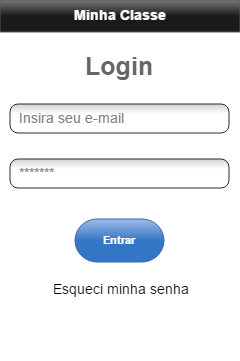
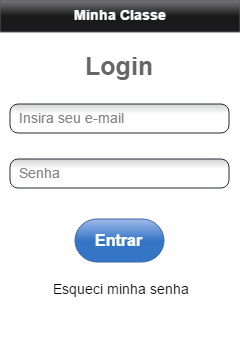
fontes redimensiondno corretamente (problema de fontes gigantes no textArea resolvido)

Changed region(s): [[0.3792, 0.6399, 0.6125, 0.7008], [0.0875, 0.4571, 0.2625, 0.518]]

diff --git a/VisualizacaoProfessor_cel/index.html b/VisualizacaoProfessor_cel/index.html
@@ -1,4 +1,4 @@
-<html xmlns="http://www.w3.org/1999/xhtml"
+<html xmlns="http://www.w3.org/1999/xhtml" xmlns:p="http://www.evolus.vn/Namespace/Pencil"
       xmlns:html="http://www.w3.org/1999/xhtml">
 <head>
     <meta http-equiv="Content-Type" content="text/html; charset=UTF-8"/>
@@ -8,7 +8,7 @@
 </head>
 <body onload="start()">
 <div class="Page" id="login_page"><h2>Login</h2>
-    <div class="ImageContainer"><img src="pages/login.png" width="240" height="360" usemap="#map_login"/></div>
+    <div class="ImageContainer"><img src="pages\login.png" width="240" height="360" usemap="#map_login"/></div>
     <map name="map_login">
         <area shape="rect" coords="76,213,165,256" href="#disciplinas_inicial_page"
               title="Go to page 'Disciplinas Inicial'"/>
@@ -17,17 +17,19 @@
     </map>
 </div>
 <div class="Page" id="disciplinas_inicial_page"><h2>Disciplinas Inicial</h2>
-    <div class="ImageContainer"><img src="pages/disciplinas_inicial.png" width="240" height="360"
+    <div class="ImageContainer"><img src="pages\disciplinas_inicial.png" width="240" height="360"
                                      usemap="#map_disciplinas_inicial"/></div>
     <map name="map_disciplinas_inicial">
-        <area shape="rect" coords="214,40.40625,225.671875,63.40625" href="#gerenciar_disciplinas_ihc_page"
-              title="Go to page 'Gerenciar Disciplinas IHC'"/>
+        <area shape="rect" coords="183,36,207,60" href="#gerenciar_disciplinas_inicial_page"
+              title="Go to page 'Gerenciar Disciplinas Inicial'"/>
+        <area shape="rect" coords="214,40.40625,225.671875,63.40625" href="#gerenciar_disciplinas_inicial_page"
+              title="Go to page 'Gerenciar Disciplinas Inicial'"/>
         <area shape="rect" coords="183,36,225.671875,63.40625" href="#gerenciar_disciplinas_inicial_page"
               title="Go to page 'Gerenciar Disciplinas Inicial'"/>
     </map>
 </div>
 <div class="Page" id="gerenciar_disciplinas_inicial_page"><h2>Gerenciar Disciplinas Inicial</h2>
-    <div class="ImageContainer"><img src="pages/gerenciar_disciplinas_inicial.png" width="241" height="365"
+    <div class="ImageContainer"><img src="pages\gerenciar_disciplinas_inicial.png" width="241" height="365"
                                      usemap="#map_gerenciar_disciplinas_inicial"/></div>
     <map name="map_gerenciar_disciplinas_inicial">
         <area shape="rect" coords="8,37,32,61" href="#disciplinas_inicial_page"
@@ -39,7 +41,7 @@
     </map>
 </div>
 <div class="Page" id="gerenciar_disciplinas_ihc_page"><h2>Gerenciar Disciplinas IHC</h2>
-    <div class="ImageContainer"><img src="pages/gerenciar_disciplinas_ihc.png" width="241" height="365"
+    <div class="ImageContainer"><img src="pages\gerenciar_disciplinas_ihc.png" width="241" height="365"
                                      usemap="#map_gerenciar_disciplinas_ihc"/></div>
     <map name="map_gerenciar_disciplinas_ihc">
         <area shape="rect" coords="8,37,32,61" href="#disciplinas_ihc_page" title="Go to page 'Disciplinas IHC'"/>
@@ -48,7 +50,7 @@
     </map>
 </div>
 <div class="Page" id="disciplinas_ihc_page"><h2>Disciplinas IHC</h2>
-    <div class="ImageContainer"><img src="pages/disciplinas_ihc.png" width="240" height="360"
+    <div class="ImageContainer"><img src="pages\disciplinas_ihc.png" width="240" height="360"
                                      usemap="#map_disciplinas_ihc"/></div>
     <map name="map_disciplinas_ihc">
         <area shape="rect" coords="214,40.40625,225.671875,63.40625" href="#gerenciar_disciplinas_ihc_page"
@@ -59,7 +61,7 @@
     </map>
 </div>
 <div class="Page" id="main_menu_page"><h2>Main Menu</h2>
-    <div class="ImageContainer"><img src="pages/main_menu.png" width="240" height="366" usemap="#map_main_menu"/></div>
+    <div class="ImageContainer"><img src="pages\main_menu.png" width="240" height="366" usemap="#map_main_menu"/></div>
     <map name="map_main_menu">
         <area shape="rect" coords="8,36,32,60" href="#disciplinas_ihc_page" title="Go to page 'Disciplinas IHC'"/>
         <area shape="rect" coords="9,114,126,138" href="#editar_ementa_page" title="Go to page 'editar ementa'"/>
@@ -70,7 +72,7 @@
     </map>
 </div>
 <div class="Page" id="avisos_page"><h2>Avisos</h2>
-    <div class="ImageContainer"><img src="pages/avisos.png" width="240" height="365" usemap="#map_avisos"/></div>
+    <div class="ImageContainer"><img src="pages\avisos.png" width="240" height="365" usemap="#map_avisos"/></div>
     <map name="map_avisos">
         <area shape="rect" coords="8,36,32,60" href="#disciplinas_ihc_page" title="Go to page 'Disciplinas IHC'"/>
         <area shape="rect" coords="41,40,235,69" href="#main_menu_page" title="Go to page 'Main Menu'"/>
@@ -82,7 +84,7 @@
     </map>
 </div>
 <div class="Page" id="avisos_modif_page"><h2>Avisos modif</h2>
-    <div class="ImageContainer"><img src="pages/avisos_modif.png" width="240" height="365" usemap="#map_avisos_modif"/>
+    <div class="ImageContainer"><img src="pages\avisos_modif.png" width="240" height="365" usemap="#map_avisos_modif"/>
     </div>
     <map name="map_avisos_modif">
         <area shape="rect" coords="8,36,32,60" href="#disciplinas_ihc_page" title="Go to page 'Disciplinas IHC'"/>
@@ -94,7 +96,7 @@
     </map>
 </div>
 <div class="Page" id="notificaes_page"><h2>Notificações</h2>
-    <div class="ImageContainer"><img src="pages/notificaes.png" width="241" height="365" usemap="#map_notificaes"/>
+    <div class="ImageContainer"><img src="pages\notificaes.png" width="241" height="365" usemap="#map_notificaes"/>
     </div>
     <map name="map_notificaes">
         <area shape="rect" coords="8,36,32,60" href="#disciplinas_ihc_page" title="Go to page 'Disciplinas IHC'"/>
@@ -104,7 +106,7 @@
     </map>
 </div>
 <div class="Page" id="gerenciar_material_page"><h2>Gerenciar Material</h2>
-    <div class="ImageContainer"><img src="pages/gerenciar_material.png" width="240" height="365"
+    <div class="ImageContainer"><img src="pages\gerenciar_material.png" width="240" height="365"
                                      usemap="#map_gerenciar_material"/></div>
     <map name="map_gerenciar_material">
         <area shape="rect" coords="8,36,32,60" href="#disciplinas_ihc_page" title="Go to page 'Disciplinas IHC'"/>
@@ -115,7 +117,7 @@
     </map>
 </div>
 <div class="Page" id="editar_ementa_page"><h2>editar ementa</h2>
-    <div class="ImageContainer"><img src="pages/editar_ementa.png" width="240" height="364"
+    <div class="ImageContainer"><img src="pages\editar_ementa.png" width="240" height="364"
                                      usemap="#map_editar_ementa"/></div>
     <map name="map_editar_ementa">
         <area shape="rect" coords="0,297,240,330" href="#editar_ementa_modificado_page"
@@ -129,7 +131,7 @@
     </map>
 </div>
 <div class="Page" id="editar_ementa_modificado_page"><h2>editar ementa modificado</h2>
-    <div class="ImageContainer"><img src="pages/editar_ementa_modificado.png" width="240" height="364"
+    <div class="ImageContainer"><img src="pages\editar_ementa_modificado.png" width="240" height="364"
                                      usemap="#map_editar_ementa_modificado"/></div>
     <map name="map_editar_ementa_modificado">
         <area shape="rect" coords="8,36,32,60" href="#disciplinas_ihc_page" title="Go to page 'Disciplinas IHC'"/>
@@ -141,7 +143,7 @@
     </map>
 </div>
 <div class="Page" id="add_prova_data_page"><h2>add prova - data</h2>
-    <div class="ImageContainer"><img src="pages/add_prova_data.png" width="240" height="365"
+    <div class="ImageContainer"><img src="pages\add_prova_data.png" width="240" height="365"
                                      usemap="#map_add_prova_data"/></div>
     <map name="map_add_prova_data">
         <area shape="rect" coords="41,252,72,278" href="#add_prova_conteudo_page"
@@ -154,7 +156,7 @@
     </map>
 </div>
 <div class="Page" id="add_prova_conteudo_page"><h2>add prova - conteudo</h2>
-    <div class="ImageContainer"><img src="pages/add_prova_conteudo.png" width="241" height="364"
+    <div class="ImageContainer"><img src="pages\add_prova_conteudo.png" width="241" height="364"
                                      usemap="#map_add_prova_conteudo"/></div>
     <map name="map_add_prova_conteudo">
         <area shape="rect" coords="1,131,240,160" href="#input_page" title="Go to page 'INPUT'"/>
@@ -168,7 +170,7 @@
     </map>
 </div>
 <div class="Page" id="avaliacoes_page"><h2>Avaliacoes</h2>
-    <div class="ImageContainer"><img src="pages/avaliacoes.png" width="240" height="365" usemap="#map_avaliacoes"/>
+    <div class="ImageContainer"><img src="pages\avaliacoes.png" width="240" height="365" usemap="#map_avaliacoes"/>
     </div>
     <map name="map_avaliacoes">
         <area shape="rect" coords="23,170,78,188" href="#add_prova_conteudo_mod_page"
@@ -176,7 +178,7 @@
     </map>
 </div>
 <div class="Page" id="add_prova_conteudo_mod_page"><h2>add prova - conteudo mod</h2>
-    <div class="ImageContainer"><img src="pages/add_prova_conteudo_mod.png" width="241" height="364"
+    <div class="ImageContainer"><img src="pages\add_prova_conteudo_mod.png" width="241" height="364"
                                      usemap="#map_add_prova_conteudo_mod"/></div>
     <map name="map_add_prova_conteudo_mod">
         <area shape="rect" coords="1,131,240,160" href="#input_page" title="Go to page 'INPUT'"/>
@@ -191,7 +193,7 @@
     </map>
 </div>
 <div class="Page" id="input_page"><h2>INPUT</h2>
-    <div class="ImageContainer"><img src="pages/input.png" width="285" height="557" usemap="#map_input"/></div>
+    <div class="ImageContainer"><img src="pages\input.png" width="285" height="557" usemap="#map_input"/></div>
     <map name="map_input"></map>
 </div>
 </body>

diff --git a/VisualizacaoAluno_cel/index.html b/VisualizacaoAluno_cel/index.html
@@ -1,4 +1,4 @@
-<html xmlns="http://www.w3.org/1999/xhtml"
+<html xmlns="http://www.w3.org/1999/xhtml" xmlns:p="http://www.evolus.vn/Namespace/Pencil"
       xmlns:html="http://www.w3.org/1999/xhtml">
 <head>
     <meta http-equiv="Content-Type" content="text/html; charset=UTF-8"/>
@@ -8,7 +8,7 @@
 </head>
 <body onload="start()">
 <div class="Page" id="login_page"><h2>Login</h2>
-    <div class="ImageContainer"><img src="pages/login.png" width="240" height="361" usemap="#map_login"/></div>
+    <div class="ImageContainer"><img src="pages\login.png" width="240" height="361" usemap="#map_login"/></div>
     <map name="map_login">
         <area shape="rect" coords="75,219,164,262" href="#disciplinasinicial_page"
               title="Go to page 'DisciplinasInicial'"/>
@@ -17,7 +17,7 @@
     </map>
 </div>
 <div class="Page" id="disciplinasinicial_page"><h2>DisciplinasInicial</h2>
-    <div class="ImageContainer"><img src="pages/disciplinasinicial.png" width="240" height="361"
+    <div class="ImageContainer"><img src="pages\disciplinasinicial.png" width="240" height="361"
                                      usemap="#map_disciplinasinicial"/></div>
     <map name="map_disciplinasinicial">
         <area shape="rect" coords="217,37,228.671875,59" href="#adicionar_disciplina_page"
@@ -25,7 +25,7 @@
     </map>
 </div>
 <div class="Page" id="adicionar_disciplina_page"><h2>Adicionar Disciplina</h2>
-    <div class="ImageContainer"><img src="pages/adicionar_disciplina.png" width="241" height="361"
+    <div class="ImageContainer"><img src="pages\adicionar_disciplina.png" width="241" height="361"
                                      usemap="#map_adicionar_disciplina"/></div>
     <map name="map_adicionar_disciplina">
         <area shape="rect" coords="205,124,229,148" href="#disciplinasihc_page" title="Go to page 'DisciplinasIHC'"/>
@@ -36,7 +36,7 @@
     </map>
 </div>
 <div class="Page" id="disciplinasihc_page"><h2>DisciplinasIHC</h2>
-    <div class="ImageContainer"><img src="pages/disciplinasihc.png" width="240" height="361"
+    <div class="ImageContainer"><img src="pages\disciplinasihc.png" width="240" height="361"
                                      usemap="#map_disciplinasihc"/></div>
     <map name="map_disciplinasihc">
         <area shape="rect" coords="217,37,228.671875,59" href="#adicionar_disciplina_page"
@@ -45,7 +45,7 @@
     </map>
 </div>
 <div class="Page" id="main_menu_page"><h2>Main Menu</h2>
-    <div class="ImageContainer"><img src="pages/main_menu.png" width="240" height="365" usemap="#map_main_menu"/></div>
+    <div class="ImageContainer"><img src="pages\main_menu.png" width="240" height="365" usemap="#map_main_menu"/></div>
     <map name="map_main_menu">
         <area shape="rect" coords="8,36,32,60" href="#disciplinasihc_page" title="Go to page 'DisciplinasIHC'"/>
         <area shape="rect" coords="8,190,153,214" href="#material_page" title="Go to page 'Material'"/>
@@ -57,7 +57,7 @@
     </map>
 </div>
 <div class="Page" id="ementa_page"><h2>Ementa</h2>
-    <div class="ImageContainer"><img src="pages/ementa.png" width="240" height="365" usemap="#map_ementa"/></div>
+    <div class="ImageContainer"><img src="pages\ementa.png" width="240" height="365" usemap="#map_ementa"/></div>
     <map name="map_ementa">
         <area shape="rect" coords="8,36,32,60" href="#disciplinasihc_page" title="Go to page 'DisciplinasIHC'"/>
         <area shape="rect" coords="41,40,235,69" href="#main_menu_page" title="Go to page 'Main Menu'"/>
@@ -67,7 +67,7 @@
     </map>
 </div>
 <div class="Page" id="notificaes_page"><h2>Notificações</h2>
-    <div class="ImageContainer"><img src="pages/notificaes.png" width="240" height="365" usemap="#map_notificaes"/>
+    <div class="ImageContainer"><img src="pages\notificaes.png" width="240" height="365" usemap="#map_notificaes"/>
     </div>
     <map name="map_notificaes">
         <area shape="rect" coords="8,36,32,60" href="#disciplinasihc_page" title="Go to page 'DisciplinasIHC'"/>
@@ -78,7 +78,7 @@
     </map>
 </div>
 <div class="Page" id="material_page"><h2>Material</h2>
-    <div class="ImageContainer"><img src="pages/material.png" width="240" height="365" usemap="#map_material"/></div>
+    <div class="ImageContainer"><img src="pages\material.png" width="240" height="365" usemap="#map_material"/></div>
     <map name="map_material">
         <area shape="rect" coords="8,36,32,60" href="#disciplinasihc_page" title="Go to page 'DisciplinasIHC'"/>
         <area shape="rect" coords="41,40,235,69" href="#main_menu_page" title="Go to page 'Main Menu'"/>
@@ -92,7 +92,7 @@
     </map>
 </div>
 <div class="Page" id="avaliaes_page"><h2>Avaliações</h2>
-    <div class="ImageContainer"><img src="pages/avaliaes.png" width="240" height="365" usemap="#map_avaliaes"/></div>
+    <div class="ImageContainer"><img src="pages\avaliaes.png" width="240" height="365" usemap="#map_avaliaes"/></div>
     <map name="map_avaliaes">
         <area shape="rect" coords="8,36,32,60" href="#disciplinasihc_page" title="Go to page 'DisciplinasIHC'"/>
         <area shape="rect" coords="41,40,235,69" href="#main_menu_page" title="Go to page 'Main Menu'"/>
@@ -106,7 +106,7 @@
     </map>
 </div>
 <div class="Page" id="avaliao_tpicos_page"><h2>Avaliação Tópicos</h2>
-    <div class="ImageContainer"><img src="pages/avaliao_tpicos.png" width="240" height="365"
+    <div class="ImageContainer"><img src="pages\avaliao_tpicos.png" width="240" height="365"
                                      usemap="#map_avaliao_tpicos"/></div>
     <map name="map_avaliao_tpicos">
         <area shape="rect" coords="8,35,32,59" href="#disciplinasihc_page" title="Go to page 'DisciplinasIHC'"/>
@@ -119,7 +119,7 @@
     </map>
 </div>
 <div class="Page" id="avaliao_nota_page"><h2>Avaliação Nota</h2>
-    <div class="ImageContainer"><img src="pages/avaliao_nota.png" width="240" height="365" usemap="#map_avaliao_nota"/>
+    <div class="ImageContainer"><img src="pages\avaliao_nota.png" width="240" height="365" usemap="#map_avaliao_nota"/>
     </div>
     <map name="map_avaliao_nota">
         <area shape="rect" coords="8,36,32,60" href="#disciplinasihc_page" title="Go to page 'DisciplinasIHC'"/>
@@ -132,11 +132,11 @@
     </map>
 </div>
 <div class="Page" id="input_page"><h2>INPUT</h2>
-    <div class="ImageContainer"><img src="pages/input.png" width="285" height="557" usemap="#map_input"/></div>
+    <div class="ImageContainer"><img src="pages\input.png" width="285" height="557" usemap="#map_input"/></div>
     <map name="map_input"></map>
 </div>
 <div class="Page" id="material_1_page"><h2>material</h2>
-    <div class="ImageContainer"><img src="pages/material_1.png" width="240" height="361" usemap="#map_material_1"/>
+    <div class="ImageContainer"><img src="pages\material_1.png" width="240" height="361" usemap="#map_material_1"/>
     </div>
     <map name="map_material_1"></map>
 </div>

diff --git a/VisualizacaoProfessor_cel/Resources/script.js b/VisualizacaoProfessor_cel/Resources/script.js
@@ -1,13 +1,15 @@
 function setInput(x0, y0, x1, y1) {
-    var x = x0 + 8;
-    var y = y0 + 8;
-    var width = x1 - x - 8;
-    var height = y1 - y - 8;
+    var x = x0 + Math.round((x1 - x0)/40);
+    var y = y0 + Math.round((x1 - x0)/40);
+    var width = x1 - x - Math.round((x1 - x0)/40);
+    var height = y1 - y - Math.round((x1 - x0)/40);
 
     var input = document.createElement("INPUT");
     input.style.width = width;
     input.style.height = height;
-    input.style.fontSize = height-12;
+    input.style.fontSize = Math.round(width/14);
+    console.log(input.style.fontSize);
+    console.log(Math.round(height/5));
     input.style.top = y;
     input.style.left = x;
 
@@ -40,7 +42,7 @@ function start() {
             newCoords = newCoordsArr.join(',');
             areas[i].coords = newCoords;
 
-        //    console.log(newCoords);
+            //    console.log(newCoords);
         }
 
         // troca os inputs por inputs

diff --git a/VisualizacaoAluno_cel/Resources/script.js b/VisualizacaoAluno_cel/Resources/script.js
@@ -1,13 +1,13 @@
 function setInput(x0, y0, x1, y1) {
-    var x = x0 + 8;
-    var y = y0 + 8;
-    var width = x1 - x - 8;
-    var height = y1 - y - 8;
+    var x = x0 + Math.round((x1 - x0)/40);
+    var y = y0 + Math.round((y1 - y0)/10);
+    var width = x1 - x - Math.round((x1 - x0)/40);
+    var height = y1 - y - Math.round((y1 - y0)/10);
 
     var input = document.createElement("INPUT");
     input.style.width = width;
     input.style.height = height;
-    input.style.fontSize = height-12;
+    input.style.fontSize = height - Math.round(height/5);
     input.style.top = y;
     input.style.left = x;
 
